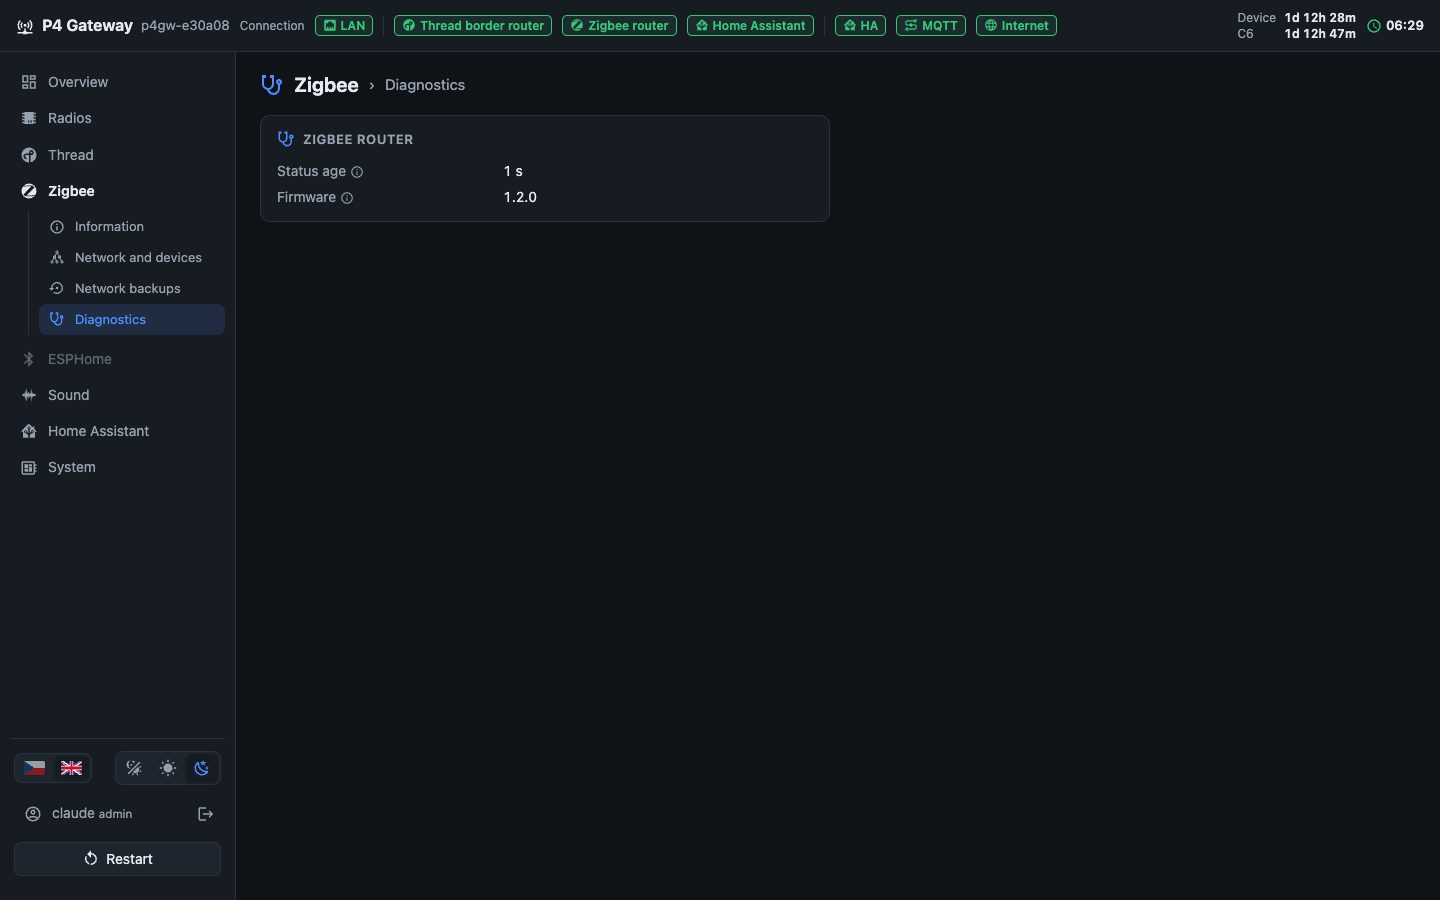
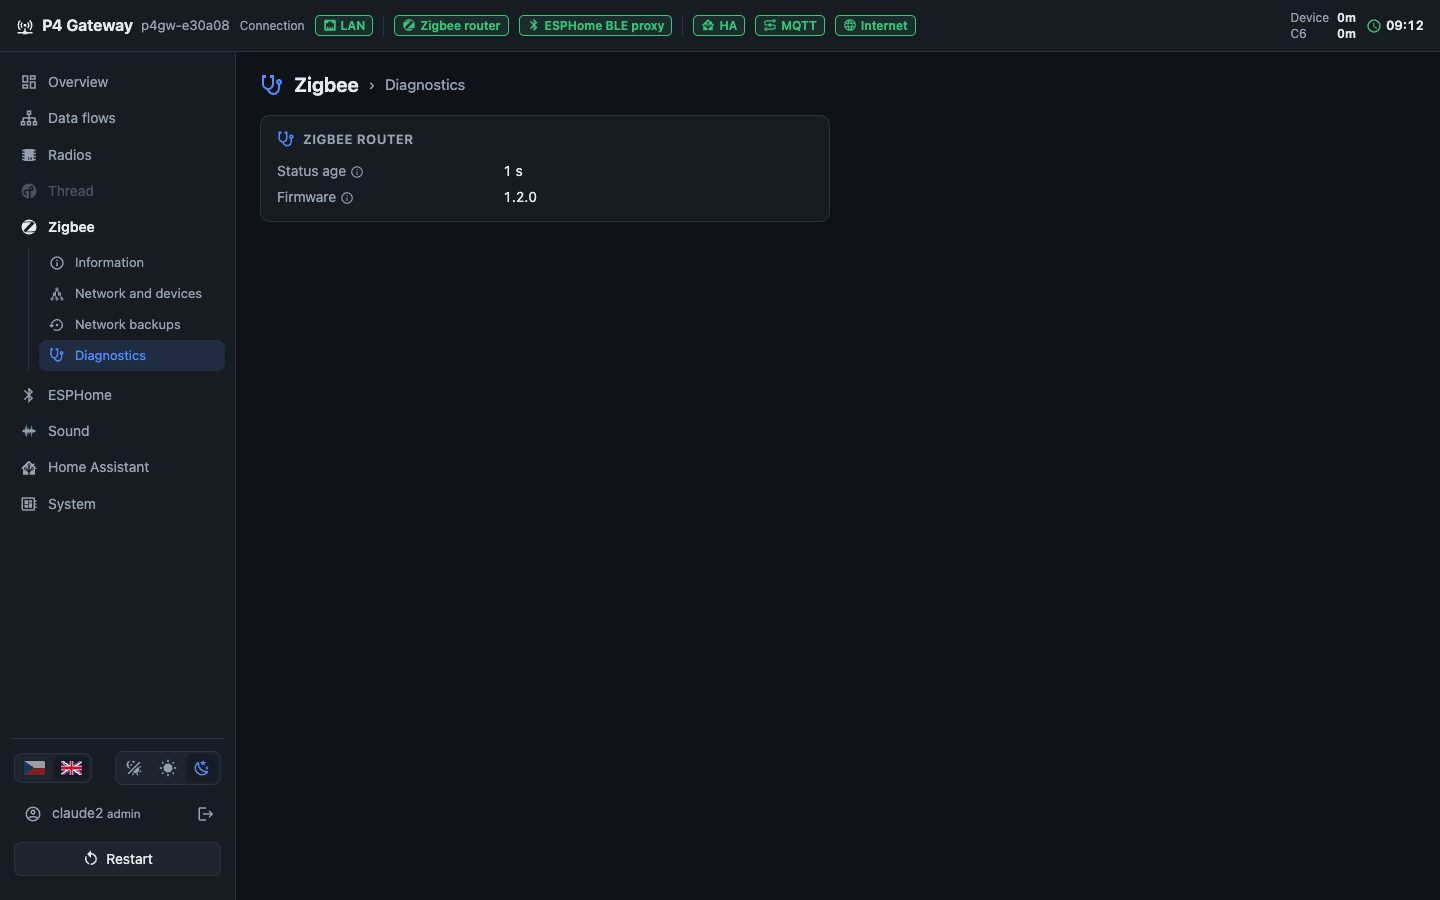
Zigbee router of radio A back in its network; router screenshots, TC26 log text

diff --git a/documentation/en/index.html b/documentation/en/index.html
@@ -623,7 +623,7 @@ advanced:
     <tr><td>Lost phone with the authenticator</td><td>A recovery code instead of the app code, or an admin turns off 2FA (Users › Edit).</td></tr>
     <tr><td>New board</td><td>System › Maintenance and backup › Settings backup: export (with passwords) and import on the new board.</td></tr>
     <tr><td>Maintenance: "the C6 firmware package is not on the gateway"</td><td>The C6 needs its large firmwares (first start, C6 update, reflash, ESPHome) and the package is neither in RAM nor downloadable: connect the gateway to the internet, or upload <code>c6fw.bin</code> of the release under System › Firmware and restart.</td></tr></tbody></table></section>
-<p class="muted foot">Screenshots: firmware v1.10, dark theme, English (Zigbee router pages: older firmware). The board, network names and addresses are those of the test setup.</p>
+<p class="muted foot">Screenshots: firmware v1.10, dark theme, English. The board, network names and addresses are those of the test setup.</p>
 </main></div>
 <div id="lightbox" hidden><img alt=""></div>
 <script>

diff --git a/documentation/cs/index.html b/documentation/cs/index.html
@@ -623,7 +623,7 @@ advanced:
     <tr><td>Ztracený telefon s Authenticatorem</td><td>Záložní kód místo kódu z aplikace, nebo správce vypne 2FA (Uživatelé › Upravit).</td></tr>
     <tr><td>Nová deska</td><td>Systém › Údržba a záloha › Záloha nastavení: export (s hesly) a import na nové desce.</td></tr>
     <tr><td>Údržba: „the C6 firmware package is not on the gateway“</td><td>C6 potřebuje velké firmwary (první start, aktualizace C6, přeflashování, ESPHome) a balík není v RAM ani ke stažení: připojte bránu k internetu, nebo v Systém › Firmware nahrajte <code>c6fw.bin</code> z vydání a restartujte.</td></tr></tbody></table></section>
-<p class="muted foot">Snímky: firmware v1.10, tmavý vzhled, angličtina (stránky Zigbee routeru: starší firmware). Deska, názvy sítí a adresy jsou z testovací instalace.</p>
+<p class="muted foot">Snímky: firmware v1.10, tmavý vzhled, angličtina. Deska, názvy sítí a adresy jsou z testovací instalace.</p>
 </main></div>
 <div id="lightbox" hidden><img alt=""></div>
 <script>

diff --git a/tools/docs/build_docs.py b/tools/docs/build_docs.py
@@ -560,8 +560,8 @@ LABELS = {
     "howto": T("How to", "Postup"), "full": T("Whole page", "Celá stránka"), "shots": T("Screenshots", "Snímky obrazovky"),
     "zigbee_shot": T("in the Zigbee coordinator role", "v roli Zigbee koordinátor"), "router_shot": T("in the Zigbee router role", "v roli Zigbee router"),
     "dialogs": T("Dialogs", "Dialogy"), "api": T("HTTP API", "HTTP API"),
-    "foot": T("Screenshots: firmware v1.10, dark theme, English (Zigbee router pages: older firmware). The board, network names and addresses are those of the test setup.",
-              "Snímky: firmware v1.10, tmavý vzhled, angličtina (stránky Zigbee routeru: starší firmware). Deska, názvy sítí a adresy jsou z testovací instalace."),
+    "foot": T("Screenshots: firmware v1.10, dark theme, English. The board, network names and addresses are those of the test setup.",
+              "Snímky: firmware v1.10, tmavý vzhled, angličtina. Deska, názvy sítí a adresy jsou z testovací instalace."),
 }
 
 SECTION_ICONS = {"overview": "view-dashboard-outline", "role": "swap-horizontal", "thread": "thread", "zigbee": "zigbee", "sound": "waveform",

diff --git a/tests/hw_test.py b/tests/hw_test.py
@@ -469,7 +469,7 @@ def tc26_zigbee_backup():
     check(after.get('generation', 0) == before.get('generation', 0) + 1, f'new generation {after.get("generation")}')
     check(abs(after.get('saved', 0) - time.time()) < 120, 'saved time is now')
     check(status()['c6']['chip']['flashes'] == flashes, 'nothing flashed')
-    check('Zigbee network backup: ESP_OK' in logs_since(0), 'backup logged')
+    check('Zigbee network backup of radio A: ESP_OK' in logs_since(0), 'backup logged')
     r = wait_until('router joined', lambda: (lambda rs: rs if (rs.get('router') or {}).get('joined') else None)(status()['role_status'] or {}), 60)['router']
     check(True, f'router back in its network after {time.time() - t0:.0f} s: pan {r["pan_id"]}')
     switch('thread_br')

diff --git a/TODO.md b/TODO.md
@@ -38,7 +38,7 @@
 - [x] Dvě rádia F6: ESPHome BLE proxy jako role rádia (C6/C5), Wi-Fi přes Improv, ESPHome na P4 zrušeno
 - [ ] ESPHome na rádiu: připojení k Wi-Fi a převzetí v HA ověřit s Wi-Fi uživatele (TC09 s nastavenou Wi-Fi)
 - [x] Dvě rádia F7–F8: UI (Role, Rádia, ESPHome, hlavička, přehled, menu dle rádia), HA 1.4.0, Telegram, dokumentace
-- [ ] Zigbee router rádia A: znovu připojit do sítě (záloha ztracena během vývoje F3), pak TC23
+- [x] Zigbee router rádia A znovu v síti Zigbee2MQTT (PAN 0x1a62, kanál 11; párování otevřeno přes `/api/zigbee/net/request`, 2026-11-03); TC23 a TC26 prošly (TC26: text zprávy o záloze opraven)
 - [x] Vydání v1.8.1 (dvě rádia; tag v1.8 bez vydání, CI chyba ESPHome)
 - [ ] Nasazení HA integrace 1.4.0; HW testy (Wi-Fi ESPHome, TC38, router) příště; soak až na pokyn
 - [x] Krok B v kódu: layout v3 (c6fw 64 kB, model 6 MB), balík C6 v noinit PSRAM, stažení při potřebě, migrační skript
@@ -83,7 +83,8 @@
 - [ ] Sledovat: po flashi přes USB jednou přestalo odpovídat HTTP (TCP 80 otevřený, ping OK) do ~10 min po startu, bez logu; po resetu nereprodukováno
 - [x] UI testy UI06/UI07 přepsány na přepínače `#seg-lang`/`#seg-theme` (2026-11-03), UI25 prošel
 - [x] Snímky dokumentace přefoceny na v1.10 (fáze thread a zigbee, nové stránky Toky dat, Wi-Fi, API, průvodce, tooltip MQTT), 2026-11-03
-- [ ] Snímky fáze `router` (Zigbee router rádia A) až router bude znovu v síti; dialogy 2FA a párování Telegramu jen s přihlášeným uživatelem (ne API tokenem)
+- [x] Snímky fáze `router` přefoceny na v1.10
+- [ ] Dialogy 2FA a párování Telegramu přefotit s přihlášeným uživatelem (API token je spustit nemůže)
 - [x] Rádio B v UI se stejnými údaji a akcemi jako rádio A (přehled, Stav a údržba: přeflashování, záloha flash, firmwary)
 - [x] Úplný sken na rádiu A i B (C5: 5 GHz, šířka, standardy), oprava WPA3 hlášené jako otevřená (skener 1.1.0); TC20 prošel
 - [x] Nové balíky c6fw/c5fw (skener 1.1.0) ve vydání v1.9
